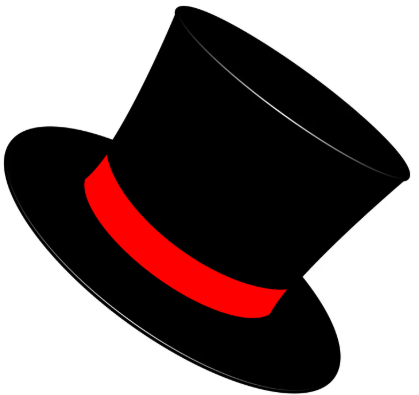
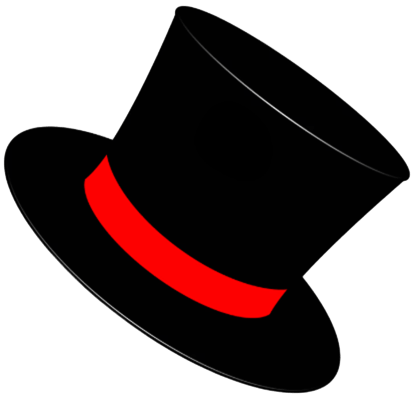
Bug fixing

diff --git a/src/routes/+layout.svelte b/src/routes/+layout.svelte
@@ -31,9 +31,7 @@
 		if (typeof localStorage === "undefined") return;
 		try {
 			localStorage.setItem("bought_items", JSON.stringify(items.bought_items));
-			console.log(
-				`Saved bought items: [${items.bought_items.map((item) => item.getPrettyStringified()).join(",")}]`
-			);
+			console.log(`Saved bought items: [${items.bought_items.map((item) => item.getPrettyStringified()).join(",")}]`);
 		} catch (error) {
 			console.error("An error occurred when saving the bought items: ", error);
 		}
@@ -59,7 +57,7 @@
 	onMount(() => {
 		const affectionInterval = setInterval(decrease_affection, 5000);
 		const nutritionInterval = setInterval(decrease_nutrition, 7500);
-		const pebblesInterval = setInterval(increase_pebbles, 30000);
+		const pebblesInterval = setInterval(increase_pebbles, 20000);
 		return () => {
 			clearInterval(affectionInterval);
 			clearInterval(nutritionInterval);

diff --git a/src/routes/shop/+page.svelte b/src/routes/shop/+page.svelte
@@ -1,10 +1,24 @@
 <script>
 	import { pebbles } from "$lib/handlers/pebbles.svelte";
+	import { goto } from "$app/navigation";
 </script>
 
-<h1 class="text-center text-5xl text-black">Shop: You have {pebbles} pebbles</h1>
+<h1 class="text-center text-5xl text-black">Shop: You have {pebbles.value} pebbles</h1>
+
+<button
+	class="mt-25 mr-[83vw] ml-[1vw] rounded-4xl bg-linear-to-r from-[#63A46C] to-[#16DB93] p-5 text-left"
+	onclick={() => goto("/home")}>Back</button
+>
 
 <button class="m-10 mx-auto mt-40 flex flex-row justify-center whitespace-normal">
-	<img alt="Top Hat" src="images/top-hat.png" />
+	<img
+		alt="Top Hat"
+		src="images/top-hat.png"
+		onclick={() => {
+			if (pebbles.value > 5) {
+				pebbles.value -= 5;
+			}
+		}}
+	/>
 </button>
-<p class="text-center text-3xl text-black">Top Hat</p>
+<p class="text-center text-3xl text-black">Top Hat - 5 pebbles</p>

diff --git a/src/lib/handlers/items.svelte.ts b/src/lib/handlers/items.svelte.ts
@@ -79,13 +79,7 @@ export class EquippableItem {
 			default:
 				throw new Error(`Unsupported slot type: ${slot}`);
 		}
-		return new EquippableItem(
-			JSON["id"],
-			JSON["name"],
-			Number(JSON["price"]),
-			slot,
-			JSON["asset_path"]
-		);
+		return new EquippableItem(JSON["id"], JSON["name"], Number(JSON["price"]), slot, JSON["asset_path"]);
 	}
 }
 
@@ -109,9 +103,7 @@ export function load_bought_items() {
 		for (const item of parsed) {
 			items.bought_items.push(EquippableItem.fromJSON(item));
 		}
-		console.log(
-			`Loaded bought items: [${items.bought_items.map((item) => item.getPrettyStringified()).join(",")}]`
-		);
+		console.log(`Loaded bought items: [${items.bought_items.map((item) => item.getPrettyStringified()).join(",")}]`);
 	} catch (error) {
 		console.error("An error occurred fetching the bought items from localStorage: ", error);
 		return;

diff --git a/src/routes/home/+page.svelte b/src/routes/home/+page.svelte
@@ -24,7 +24,7 @@
 		</div>
 	</div>
 </div>
-<p class="ml-155 flex flex-row text-center text-3xl whitespace-normal">Click on the rock to pet it</p>
+<p class="ml-156 flex flex-row text-center text-3xl whitespace-normal">Click on the rock to pet it</p>
 
 <button
 	class="justify-right ml-325 rounded-4xl bg-linear-to-r from-[#63A46C] to-[#16DB93] p-5 text-right text-3xl"
